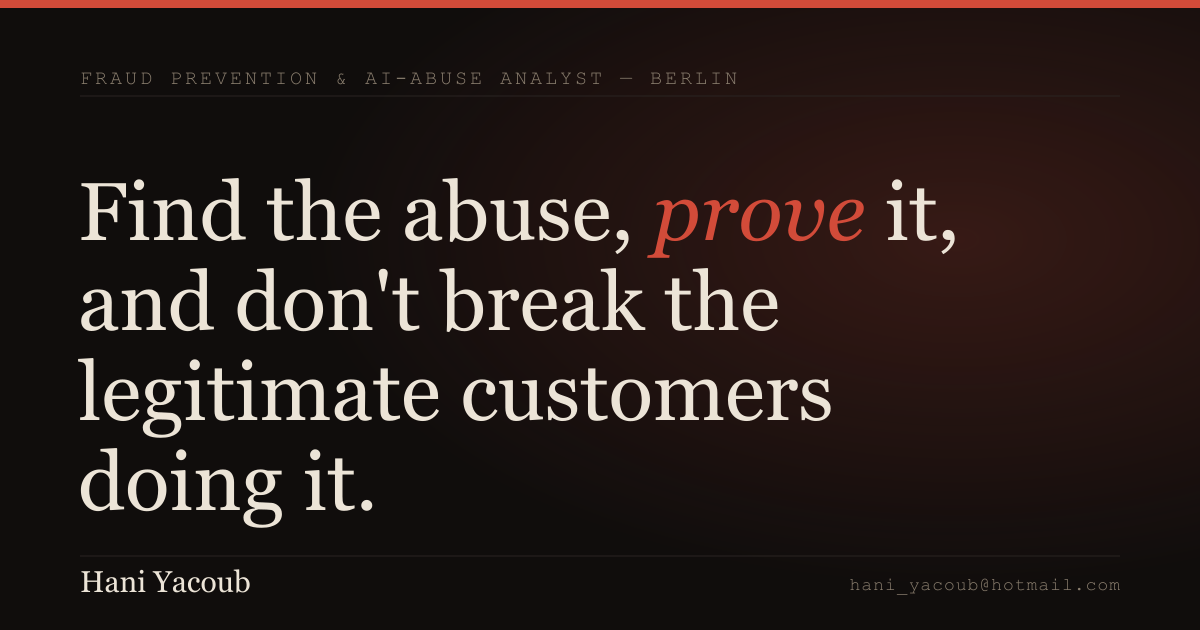
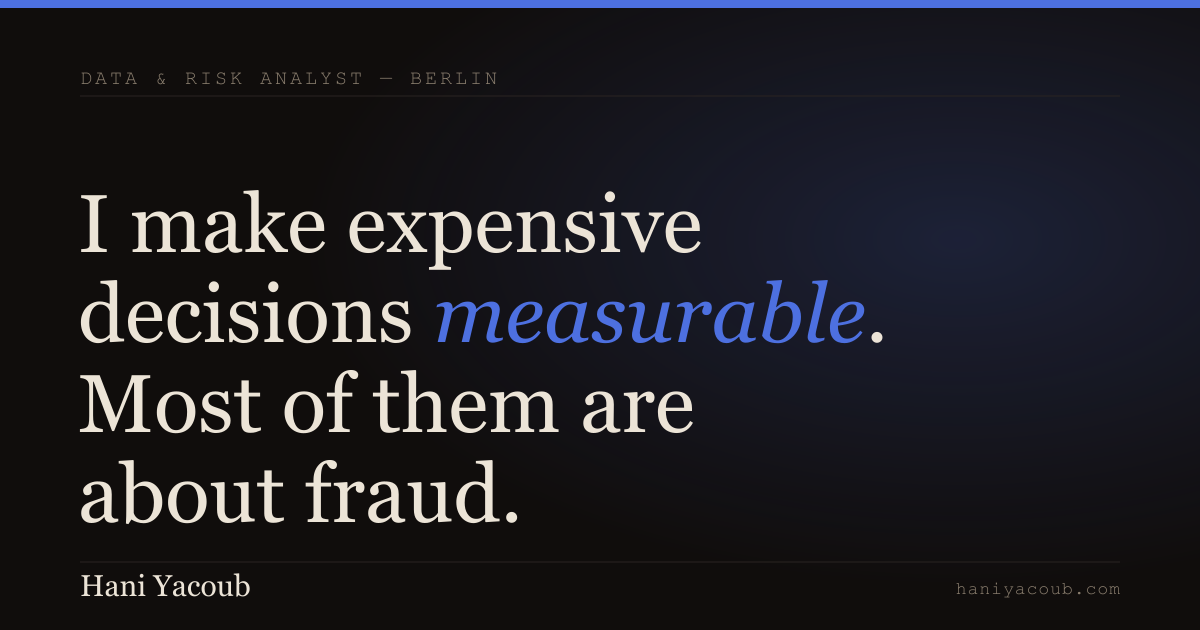
Fix four things a recruiter hits before reading a word
Found by auditing the site from a recruiter's path rather than from the
code. All four were measured, not guessed.

- The OG share card still shipped the RETIRED fraud positioning and the
  abandoned oxblood accent. That card renders every time the link is
  pasted into Slack, LinkedIn or iMessage, so it was actively
  contradicting the site it linked to. Now carries the current headline
  and the indigo accent, and reads from the same wording as site.tagline.
- There was no path to the work from the first screenful. Every link
  above the fold went to /about, /contact, the PDF, or the interactive
  dial — a visitor had to scroll two full screens on faith to reach the
  case studies. Nav now leads with Work.
- The Résumé link navigated the current tab into the browser's PDF
  viewer, which has no nav and no way back. It opens in a new tab and
  says so with a marker.
- No 404 page existed, so a truncated or stale URL got GitHub Pages'
  unstyled default with GitHub's branding. Replaced with a real page that
  explains the merges and offers the three lead cases.

Also: the hand-maintained favicon.svg kept the old accent (the asset
generator doesn't emit that file), and the career timeline used
open-ended single years — "2020", "2021" — which left a recruiter unable
to compute tenure and read as an employment gap. Closed ranges now, with
the real job title on each entry, since "Statkraft" and "AUTO1" mean
[…]

diff --git a/src/data/profile.ts b/src/data/profile.ts
@@ -13,19 +13,49 @@ export const facts = [
   { value: "18", unit: "cases", label: "Platforms, dashboards, models, forecasts", emphasis: false },
 ] as const;
 
-/** Career arc — drives the Timeline. Absolute periods, his real history. */
+/** Career arc — drives the Timeline.
+    CLOSED date ranges on purpose: an open-ended single year ("2021") leaves a
+    recruiter unable to work out tenure, which is one of the few hard tokens
+    they actually scan for. Each entry names the sector and the real job title,
+    because "Statkraft" and "AUTO1" mean nothing to a reader outside Germany. */
 export const career = [
-  { date: "2020", org: "Statkraft", detail: "Energy. Data & risk analysis" },
-  { date: "2021", org: "AUTO1 Group", detail: "Automotive. Risk & abuse analytics" },
   {
-    date: "2024 to 2026",
-    org: "Zalando",
-    detail: "Fashion. Risk & Abuse / Transaction Risk Management",
+    date: "2020–2021",
+    org: "Statkraft",
+    detail: "Energy · Quantitative analyst intern, energy markets",
   },
   {
-    date: "2026",
+    date: "2021–2024",
+    org: "AUTO1 Group",
+    detail: "Automotive · Data analyst, customer acquisition",
+  },
+  {
+    date: "2024–2026",
+    org: "Zalando",
+    detail: "Fashion e-commerce · Senior product analyst, risk & abuse",
+  },
+  {
+    date: "2026–present",
     org: "AWS",
-    detail: "Cloud. Payments & Fraud Prevention (Registration)",
+    detail: "Cloud · Payments & fraud prevention",
+  },
+] as const;
+
+/** Education and ongoing study. The "ongoing" on the last one is the point:
+    it says he is still actively levelling up, which reads better than a date
+    from years ago. */
+export const education = [
+  {
+    what: "MSc Business Management",
+    where: "SRH Berlin University of Applied Sciences",
+  },
+  {
+    what: "Data Engineering with AWS",
+    where: "Udacity nanodegree",
+  },
+  {
+    what: "ML engineering, self-directed",
+    where: "12-month curriculum, ongoing — built from scratch before reaching for libraries",
   },
 ] as const;
 

diff --git a/src/data/site.ts b/src/data/site.ts
@@ -24,9 +24,15 @@ export const site = {
     "I make expensive decisions measurable. Most of them are about fraud.",
 } as const;
 
-// Real routed pages — the site is multi-page, not a single scroll.
+/* Real routed pages — the site is multi-page, not a single scroll.
+   Work comes first: the case studies are the substance of the portfolio, and
+   without this entry there was no path to them from the first screenful at
+   all — a visitor had to scroll past two full screens on faith. */
 export const nav = [
+  { label: "Work", href: "/#work" },
   { label: "About", href: "/about" },
   { label: "Contact", href: "/contact" },
-  { label: "Résumé", href: "/Hani_Yacoub_CV.pdf" },
+  // Opens in a new tab (see Nav.astro): a PDF viewer has none of the site's
+  // chrome, so navigating the current tab into it is a dead end.
+  { label: "Résumé", href: "/Hani_Yacoub_CV.pdf", external: true },
 ] as const;
